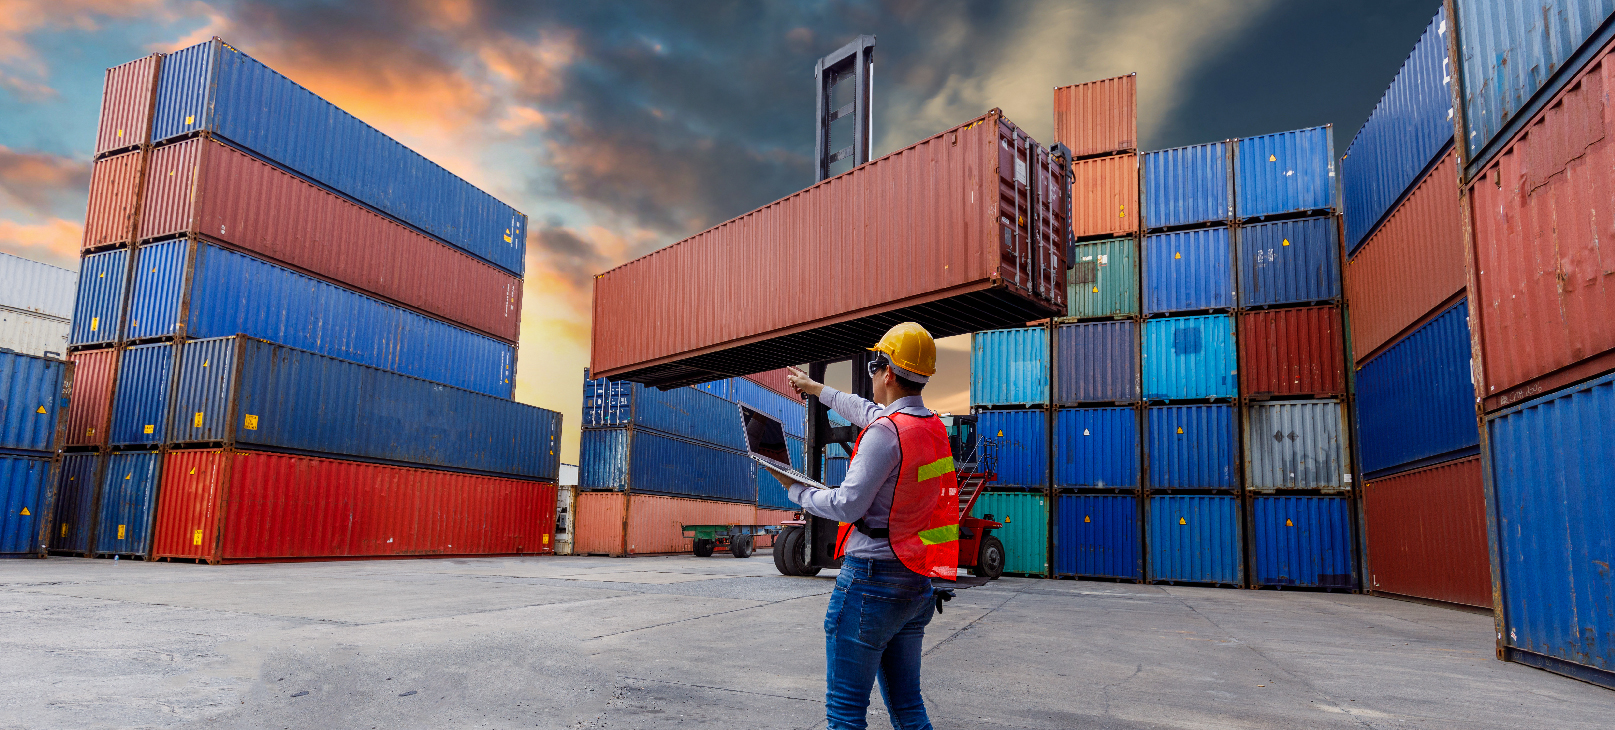
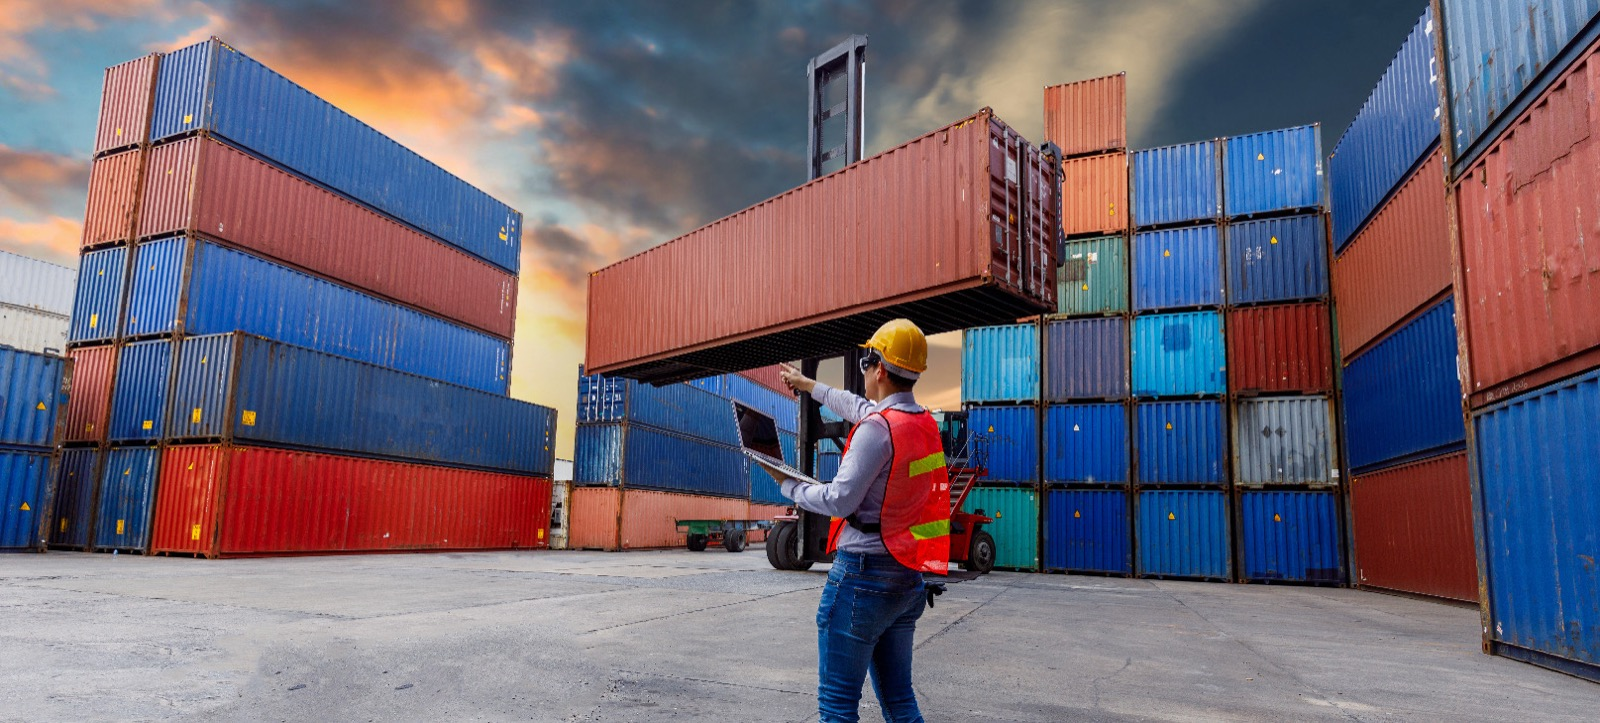
Improve AI crawlability and cut heavy homepage image weight.
Add robots/sitemap/llms.txt plus richer metadata and JSON-LD, and replace oversized hero assets so the public site loads lighter once DNS points to Hostinger.

diff --git a/app/page.tsx b/app/page.tsx
@@ -22,7 +22,7 @@ export default function Home() {
   const img = {
     teatroAmazonas: "/images/imagens-aereas-do-teatro-amazonas-em-4k-uhd.jpg",
     desembaraco: "/images/desembaraco-aduaneiro-capa.jpg",
-    porto: "/images/port-workers-cargo.png",
+    porto: "/images/port-workers-cargo.jpg",
     aviao: "/images/transporte-aduaneiro-aviao.jpeg",
     armazenamento: "/images/aduana-amazenamento.jpeg",
     galeria1: "/images/images01.jpeg",
@@ -114,9 +114,13 @@ export default function Home() {
               {/* Localização */}
               <div className="group relative rounded-2xl bg-card border border-border/50 shadow-lg hover:shadow-xl transition-all duration-300 hover:-translate-y-1 overflow-hidden">
                 <div className="h-48 overflow-hidden">
-                  <img 
-                    src={assetUrl(img.teatroAmazonas)} 
-                    alt="Teatro Amazonas - Manaus" 
+                  <img
+                    src={assetUrl(img.teatroAmazonas)}
+                    alt="Teatro Amazonas - Manaus"
+                    width={1200}
+                    height={675}
+                    loading="lazy"
+                    decoding="async"
                     className="w-full h-full object-cover group-hover:scale-105 transition-transform duration-500"
                   />
                 </div>
@@ -134,9 +138,13 @@ export default function Home() {
               {/* Estrutura */}
               <div className="group relative rounded-2xl bg-card border border-border/50 shadow-lg hover:shadow-xl transition-all duration-300 hover:-translate-y-1 overflow-hidden">
                 <div className="h-48 overflow-hidden">
-                  <img 
-                    src={assetUrl(img.galeria1)} 
-                    alt="Estrutura e operação" 
+                  <img
+                    src={assetUrl(img.galeria1)}
+                    alt="Estrutura e operação"
+                    width={800}
+                    height={600}
+                    loading="lazy"
+                    decoding="async"
                     className="w-full h-full object-cover group-hover:scale-105 transition-transform duration-500"
                   />
                 </div>
@@ -154,9 +162,13 @@ export default function Home() {
               {/* Compromisso */}
               <div className="group relative rounded-2xl bg-card border border-border/50 shadow-lg hover:shadow-xl transition-all duration-300 hover:-translate-y-1 overflow-hidden">
                 <div className="h-48 overflow-hidden">
-                  <img 
-                    src={assetUrl(img.porto)} 
-                    alt="Acompanhamento em portos e terminais" 
+                  <img
+                    src={assetUrl(img.porto)}
+                    alt="Acompanhamento em portos e terminais"
+                    width={996}
+                    height={664}
+                    loading="lazy"
+                    decoding="async"
                     className="w-full h-full object-cover group-hover:scale-105 transition-transform duration-500"
                   />
                 </div>
@@ -174,9 +186,13 @@ export default function Home() {
               {/* Diferencial */}
               <div className="group relative rounded-2xl bg-card border border-border/50 shadow-lg hover:shadow-xl transition-all duration-300 hover:-translate-y-1 overflow-hidden">
                 <div className="h-48 overflow-hidden">
-                  <img 
-                    src={assetUrl(img.galeria2)} 
-                    alt="Parceria e assessoria empresarial" 
+                  <img
+                    src={assetUrl(img.galeria2)}
+                    alt="Parceria e assessoria empresarial"
+                    width={800}
+                    height={600}
+                    loading="lazy"
+                    decoding="async"
                     className="w-full h-full object-cover group-hover:scale-105 transition-transform duration-500"
                   />
                 </div>
@@ -205,7 +221,7 @@ export default function Home() {
             <Collapsible>
               <CollapsibleTrigger className="w-full flex items-center gap-4 p-6 rounded-lg border bg-card hover:bg-secondary/50 transition-colors group">
                 <div className="w-12 h-12 rounded-lg bg-accent/10 flex items-center justify-center flex-shrink-0">
-                  <img src={assetUrl(img.desembaraco)} alt="" className="w-8 h-8 object-cover rounded" />
+                  <img src={assetUrl(img.desembaraco)} alt="" width={32} height={32} loading="lazy" decoding="async" className="w-8 h-8 object-cover rounded" />
                 </div>
                 <div className="flex-1 text-left">
                   <h3 className="font-semibold text-foreground text-lg">IMPORTAÇÃO | Diferencial é a palavra-chave</h3>
@@ -234,7 +250,7 @@ export default function Home() {
             <Collapsible>
               <CollapsibleTrigger className="w-full flex items-center gap-4 p-6 rounded-lg border bg-card hover:bg-secondary/50 transition-colors group">
                 <div className="w-12 h-12 rounded-lg bg-accent/10 flex items-center justify-center flex-shrink-0">
-                  <img src={assetUrl(img.aviao)} alt="" className="w-8 h-8 object-cover rounded" />
+                  <img src={assetUrl(img.aviao)} alt="" width={32} height={32} loading="lazy" decoding="async" className="w-8 h-8 object-cover rounded" />
                 </div>
                 <div className="flex-1 text-left">
                   <h3 className="font-semibold text-foreground text-lg">EXPORTAÇÃO | Atendimento 24h</h3>
@@ -261,7 +277,7 @@ export default function Home() {
             <Collapsible>
               <CollapsibleTrigger className="w-full flex items-center gap-4 p-6 rounded-lg border bg-card hover:bg-secondary/50 transition-colors group">
                 <div className="w-12 h-12 rounded-lg bg-accent/10 flex items-center justify-center flex-shrink-0">
-                  <img src={assetUrl(img.armazenamento)} alt="" className="w-8 h-8 object-cover rounded" />
+                  <img src={assetUrl(img.armazenamento)} alt="" width={32} height={32} loading="lazy" decoding="async" className="w-8 h-8 object-cover rounded" />
                 </div>
                 <div className="flex-1 text-left">
                   <h3 className="font-semibold text-foreground text-lg">AG. DE CARGA | Solução do início ao fim</h3>
@@ -291,7 +307,7 @@ export default function Home() {
             <Collapsible>
               <CollapsibleTrigger className="w-full flex items-center gap-4 p-6 rounded-lg border bg-card hover:bg-secondary/50 transition-colors group">
                 <div className="w-12 h-12 rounded-lg bg-accent/10 flex items-center justify-center flex-shrink-0">
-                  <img src={assetUrl(img.galeria3)} alt="" className="w-8 h-8 object-cover rounded" />
+                  <img src={assetUrl(img.galeria3)} alt="" width={32} height={32} loading="lazy" decoding="async" className="w-8 h-8 object-cover rounded" />
                 </div>
                 <div className="flex-1 text-left">
                   <h3 className="font-semibold text-foreground text-lg">INTERNAÇÃO | Experiência e envolvimento</h3>
@@ -318,7 +334,7 @@ export default function Home() {
             <Collapsible>
               <CollapsibleTrigger className="w-full flex items-center gap-4 p-6 rounded-lg border bg-card hover:bg-secondary/50 transition-colors group">
                 <div className="w-12 h-12 rounded-lg bg-accent/10 flex items-center justify-center flex-shrink-0">
-                  <img src={assetUrl(img.galeria1)} alt="" className="w-8 h-8 object-cover rounded" />
+                  <img src={assetUrl(img.galeria1)} alt="" width={32} height={32} loading="lazy" decoding="async" className="w-8 h-8 object-cover rounded" />
                 </div>
                 <div className="flex-1 text-left">
                   <h3 className="font-semibold text-foreground text-lg">CONSULTORIA TÉCNICA E CLASSIFICAÇÃO FISCAL</h3>

diff --git a/app/layout.tsx b/app/layout.tsx
@@ -7,18 +7,70 @@ const _geist = Geist({ subsets: ["latin"] })
 const _geistMono = Geist_Mono({ subsets: ["latin"] })
 
 const basePath = (process.env.NEXT_PUBLIC_BASE_PATH ?? "").replace(/\/$/, "")
+const siteUrl = (process.env.NEXT_PUBLIC_SITE_URL ?? "https://dmarcos.com.br").replace(/\/$/, "")
 const faviconUrl = `${basePath}/favicon.png`
 
+const siteDescription =
+  "Mais de 40 anos resolvendo todas as fases da logística de desembaraço nas áreas portuária, armazenamento e expedição de mercadorias. Importação, exportação e internação em Manaus/AM."
+
 export const metadata: Metadata = {
-  // <CHANGE> Updated metadata for Dmarcos
-  title: "Dmarcos - Desembaraço Aduaneiro",
-  description:
-    "Mais de 40 anos resolvendo todas as fases da logística de desembaraço nas áreas portuária, armazenamento e expedição de mercadorias.",
-  generator: "v0.app",
-  /** Favicon em `public/favicon.png` (respeita `NEXT_PUBLIC_BASE_PATH` na Hostinger) */
+  metadataBase: new URL(siteUrl),
+  title: {
+    default: "Dmarcos — Desembaraço Aduaneiro em Manaus",
+    template: "%s | Dmarcos",
+  },
+  description: siteDescription,
+  applicationName: "Dmarcos",
+  keywords: [
+    "desembaraço aduaneiro",
+    "importação",
+    "exportação",
+    "Manaus",
+    "ZFM",
+    "SUFRAMA",
+    "SISCOMEX",
+    "logística internacional",
+    "Dmarcos",
+  ],
+  authors: [{ name: "Dmarcos" }],
+  creator: "Dmarcos",
+  openGraph: {
+    type: "website",
+    locale: "pt_BR",
+    url: siteUrl,
+    siteName: "Dmarcos",
+    title: "Dmarcos — Desembaraço Aduaneiro em Manaus",
+    description: siteDescription,
+  },
+  twitter: {
+    card: "summary_large_image",
+    title: "Dmarcos — Desembaraço Aduaneiro em Manaus",
+    description: siteDescription,
+  },
+  alternates: {
+    canonical: "/",
+  },
+  robots: {
+    index: true,
+    follow: true,
+  },
   icons: {
     icon: [{ url: faviconUrl, type: "image/png" }],
     apple: [{ url: faviconUrl, type: "image/png" }],
+  },
+}
+
+const organizationJsonLd = {
+  "@context": "https://schema.org",
+  "@type": "Organization",
+  name: "Dmarcos",
+  url: siteUrl,
+  description: siteDescription,
+  address: {
+    "@type": "PostalAddress",
+    addressLocality: "Manaus",
+    addressRegion: "AM",
+    addressCountry: "BR",
   },
 }
 
@@ -30,6 +82,10 @@ export default function RootLayout({
   return (
     <html lang="pt-BR">
       <body className={`font-sans antialiased`}>
+        <script
+          type="application/ld+json"
+          dangerouslySetInnerHTML={{ __html: JSON.stringify(organizationJsonLd) }}
+        />
         {children}
       </body>
     </html>

diff --git a/app/robots.ts b/app/robots.ts
@@ -1,0 +1,17 @@
+import type { MetadataRoute } from "next"
+
+const siteUrl = (process.env.NEXT_PUBLIC_SITE_URL ?? "https://dmarcos.com.br").replace(/\/$/, "")
+
+export default function robots(): MetadataRoute.Robots {
+  return {
+    rules: [
+      {
+        userAgent: "*",
+        allow: "/",
+        disallow: ["/api/", "/consultas/"],
+      },
+    ],
+    sitemap: `${siteUrl}/sitemap.xml`,
+    host: siteUrl,
+  }
+}

diff --git a/app/sitemap.ts b/app/sitemap.ts
@@ -1,0 +1,14 @@
+import type { MetadataRoute } from "next"
+
+const siteUrl = (process.env.NEXT_PUBLIC_SITE_URL ?? "https://dmarcos.com.br").replace(/\/$/, "")
+
+export default function sitemap(): MetadataRoute.Sitemap {
+  return [
+    {
+      url: `${siteUrl}/`,
+      lastModified: new Date(),
+      changeFrequency: "weekly",
+      priority: 1,
+    },
+  ]
+}
